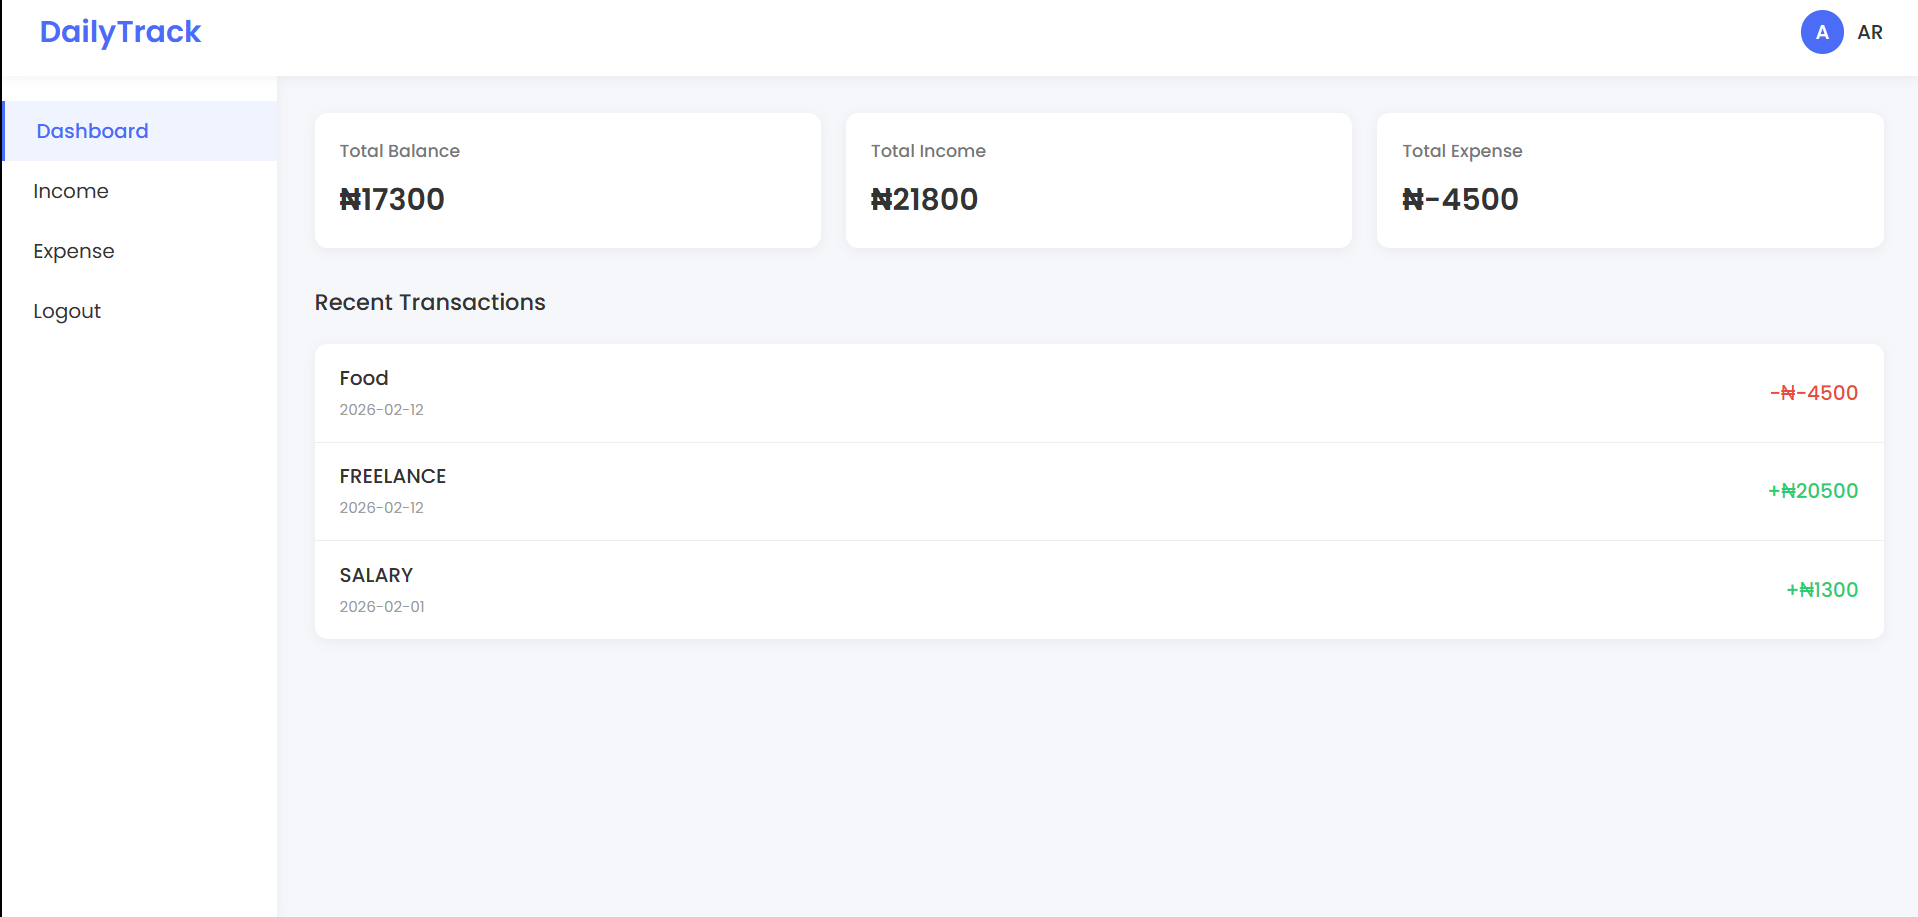
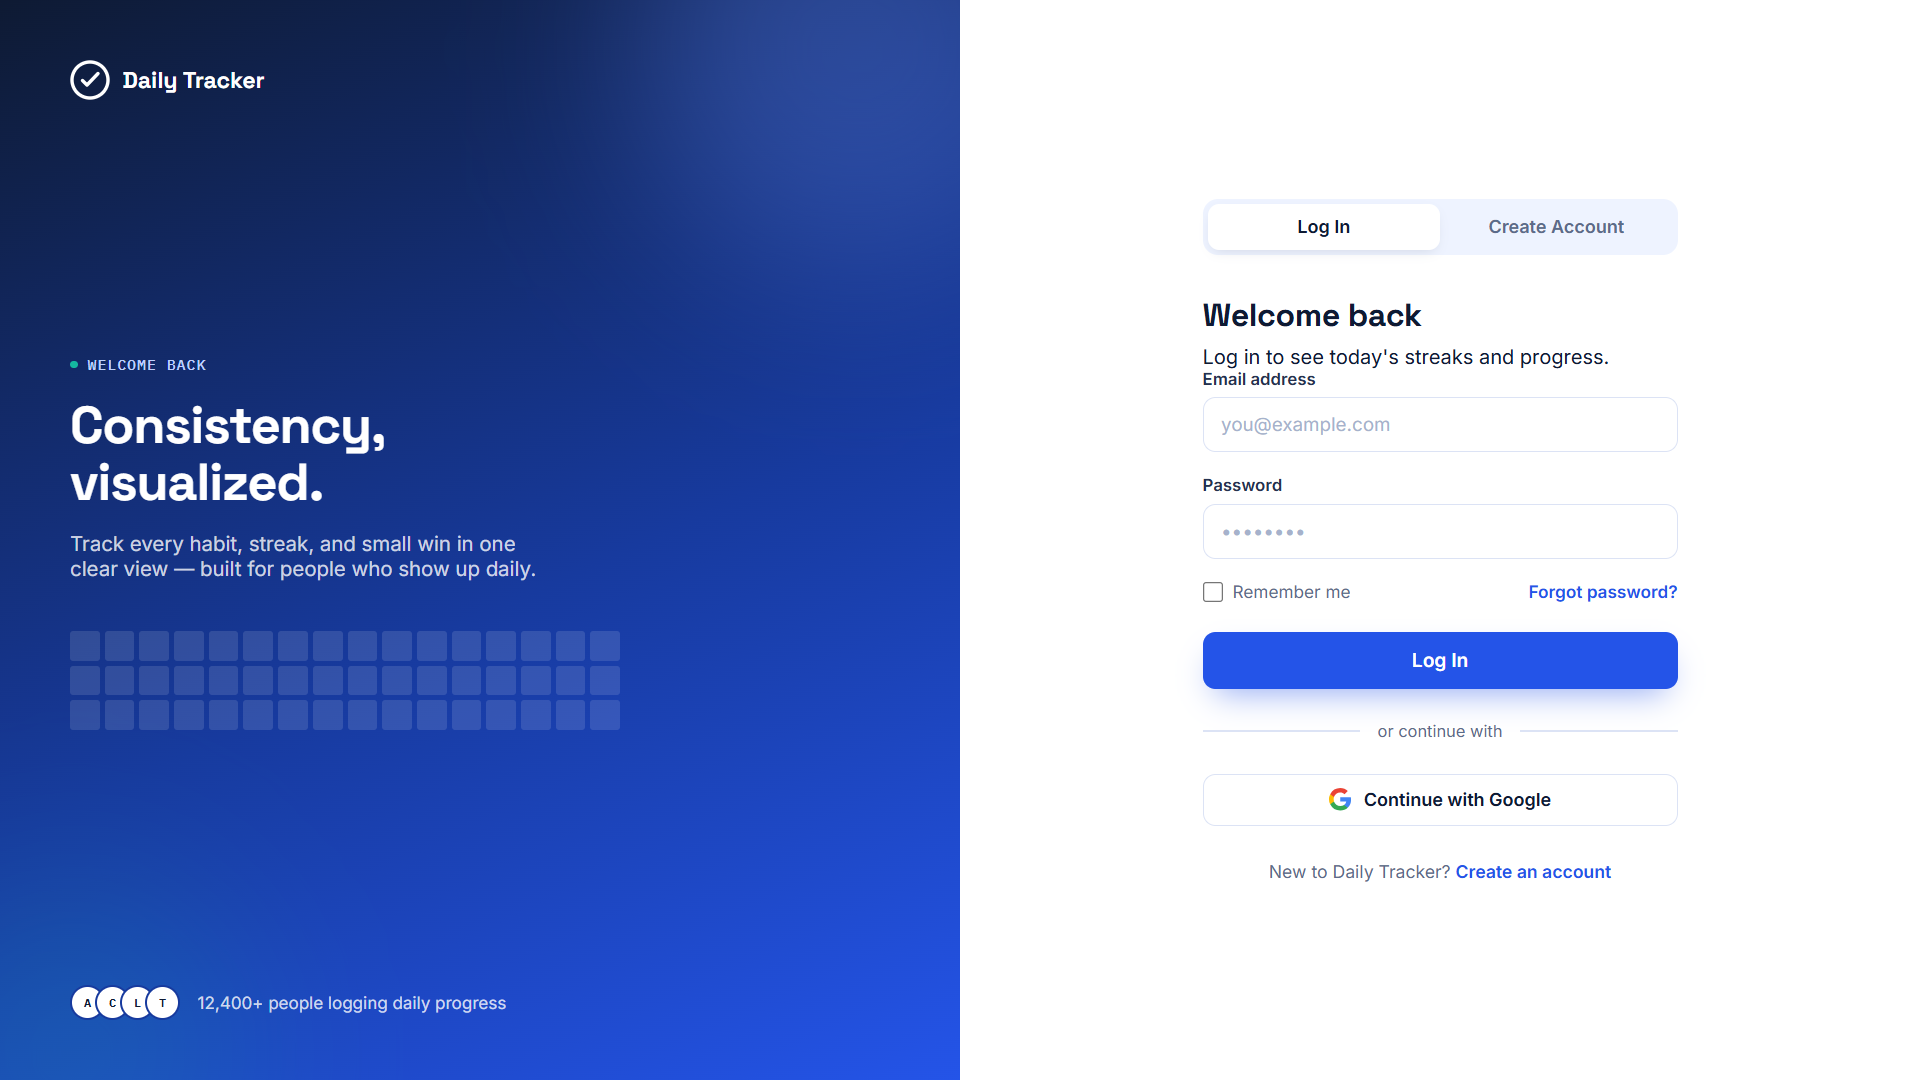
update

diff --git a/src/Home.jsx b/src/Home.jsx
@@ -48,7 +48,7 @@ function Home() {
       id: 4,
       image: item4,
       title: "Daily Tracker DEMO",
-      link: "https://dailytracker-cyber.netlify.app/",
+      link: "https://dailytracker-dev.netlify.app/",
       description:
         "A web application that allows users to track their daily activities, set goals, and monitor their progress. The app provides a user-friendly interface for logging tasks, habits, and routines, helping users stay organized and motivated throughout the day.",
     },
